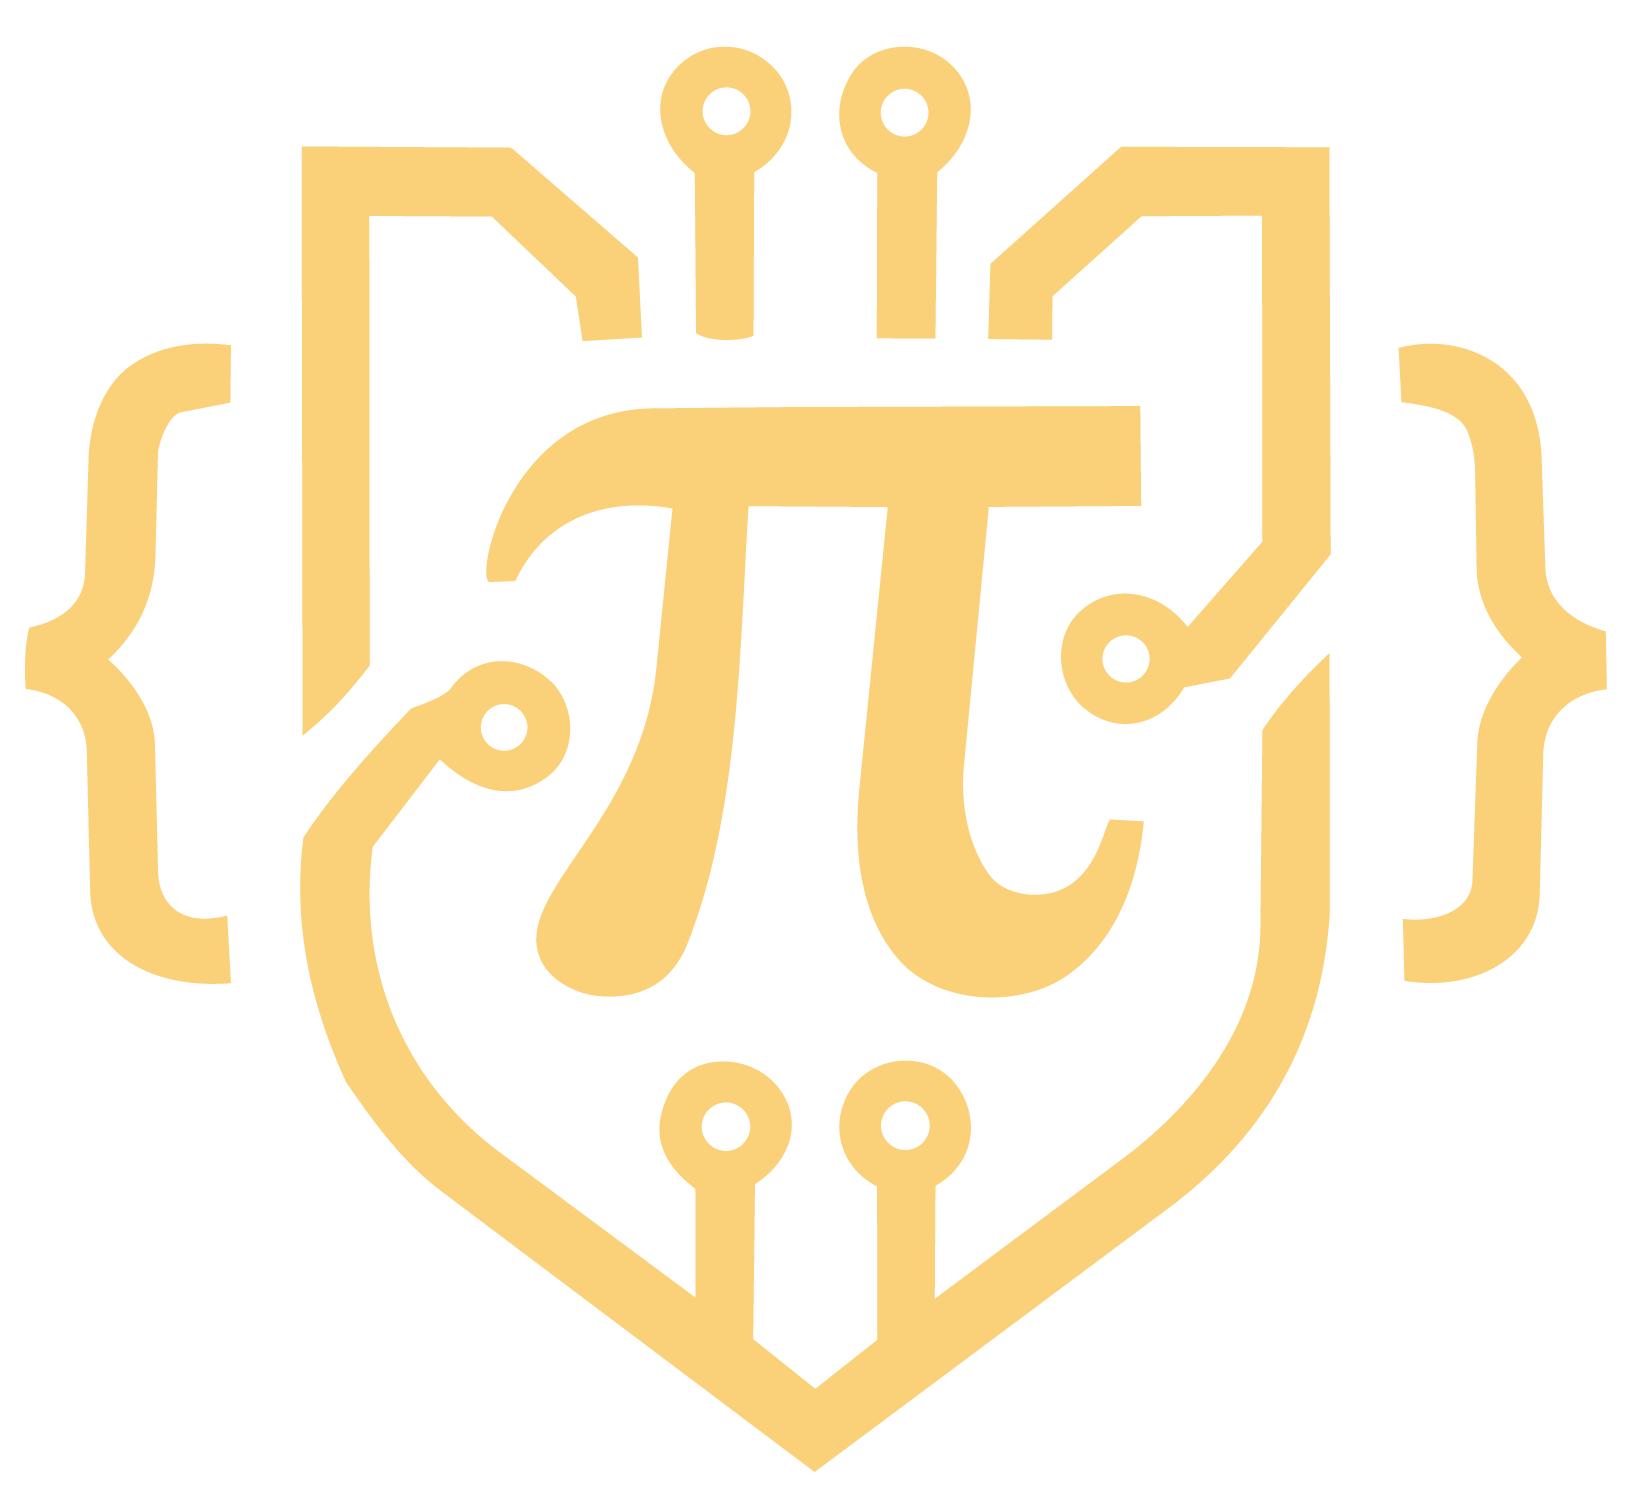
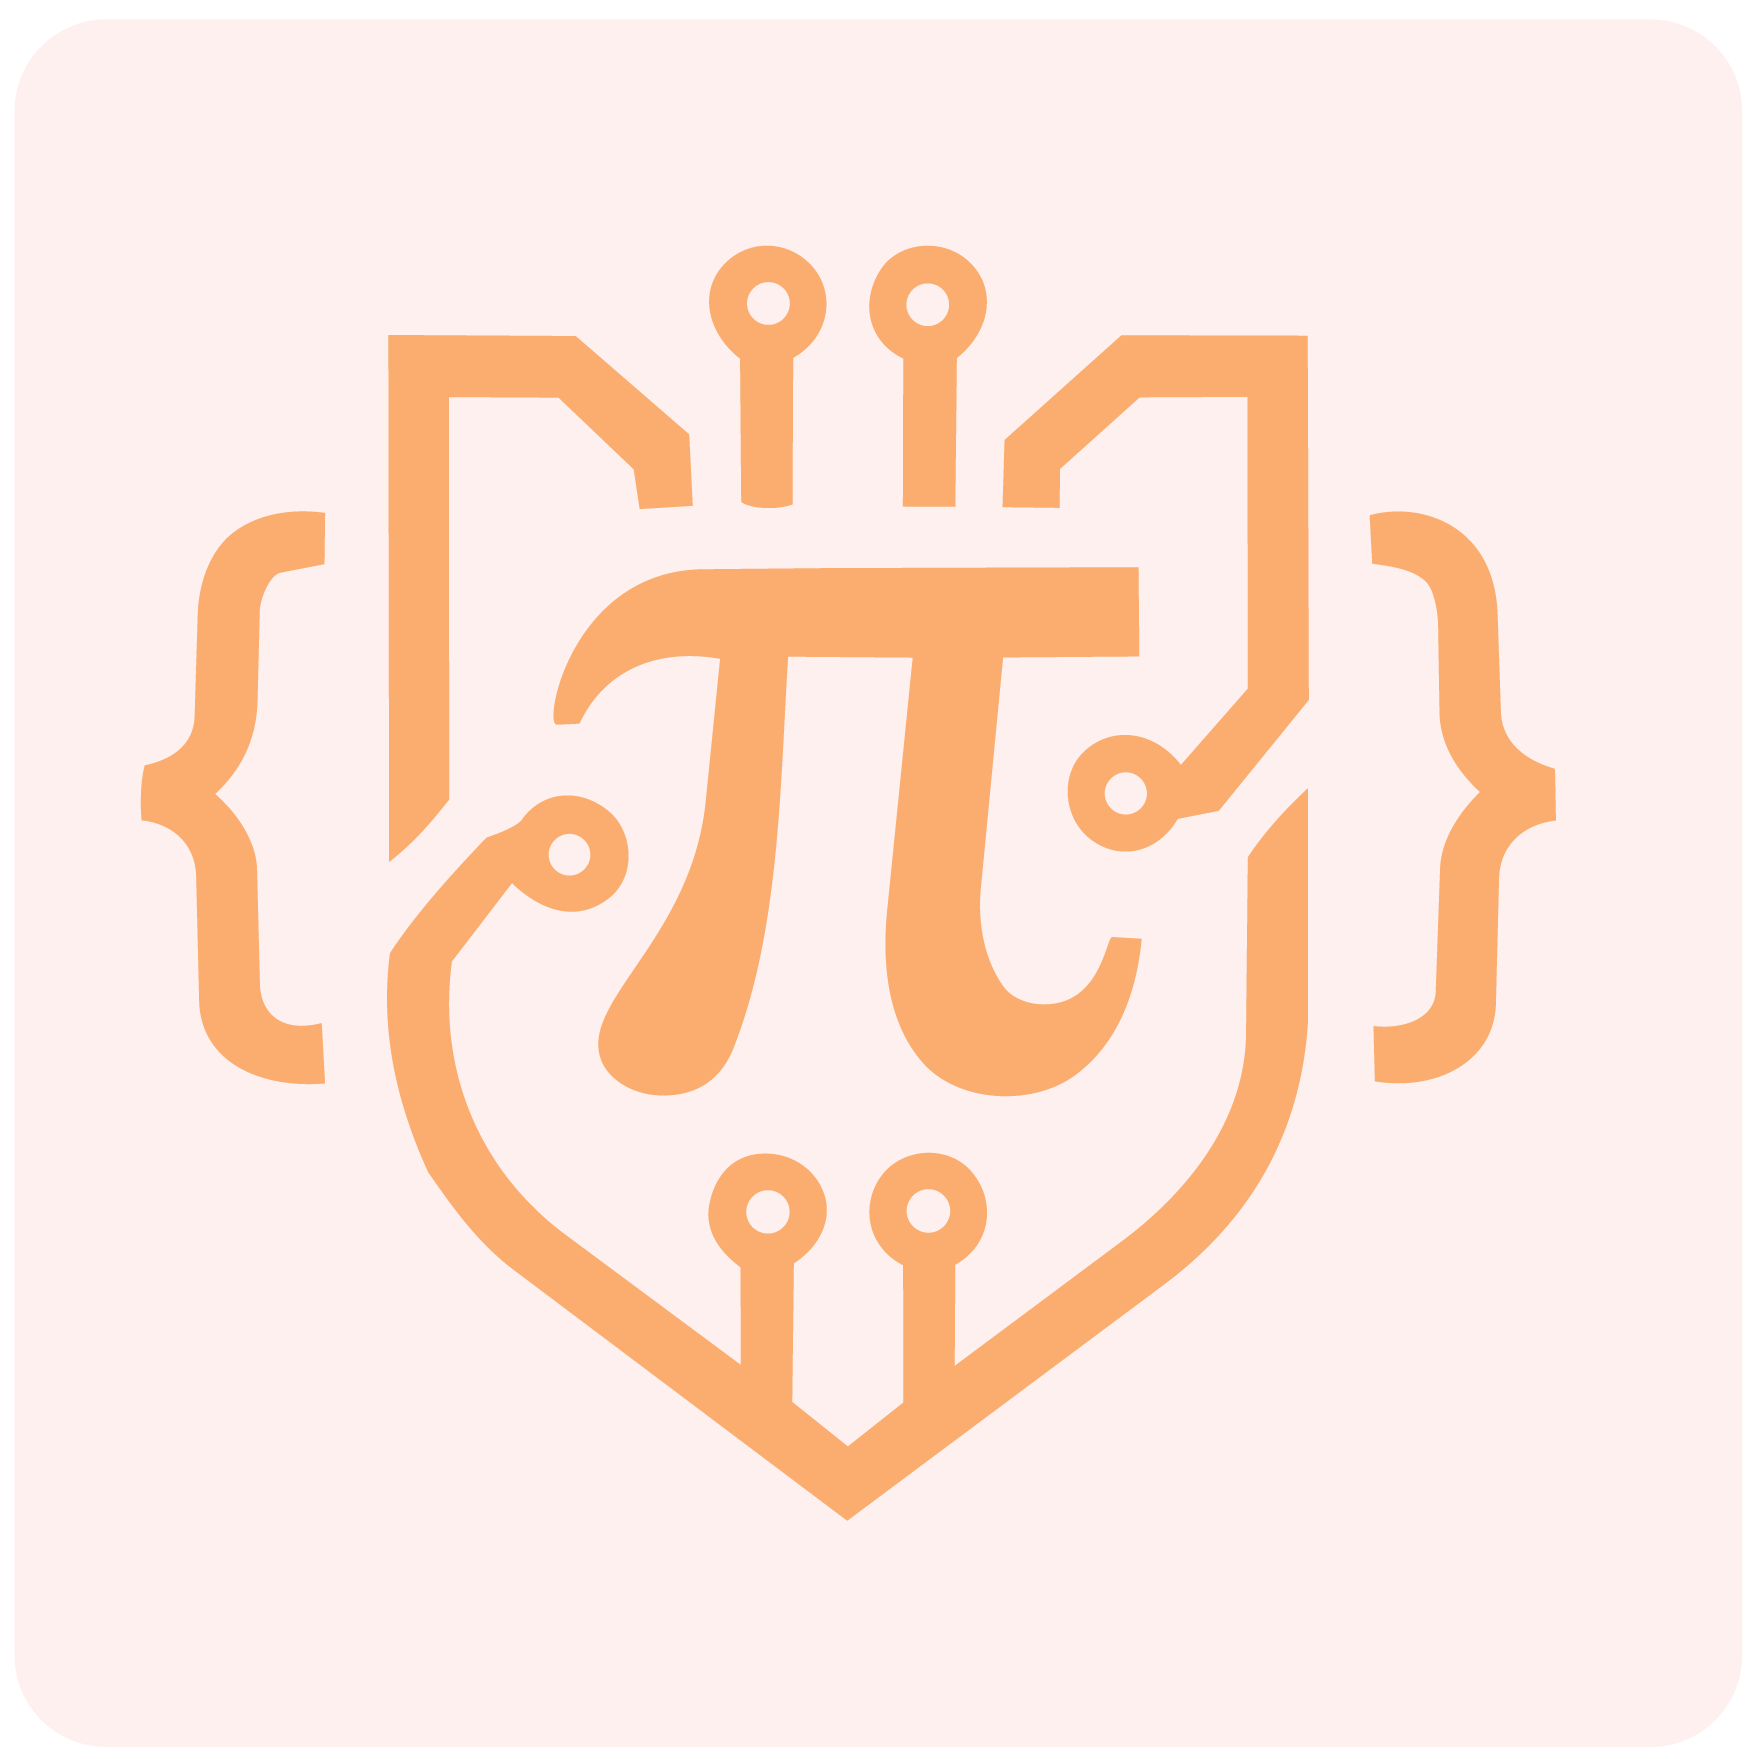
PWA Apk add

diff --git a/src/app/manifest.js b/src/app/manifest.js
@@ -10,6 +10,7 @@ export default function manifest() {
     icons: [
       { src: "/icon-192x192.png", sizes: "192x192", type: "image/png" },
       { src: "/icon-512x512.png", sizes: "512x512", type: "image/png" },
+      { src: "/icon-1024x1024.png", sizes: "1024x1024", type: "image/png", purpose: "any maskable" },
     ],
   }
 }
